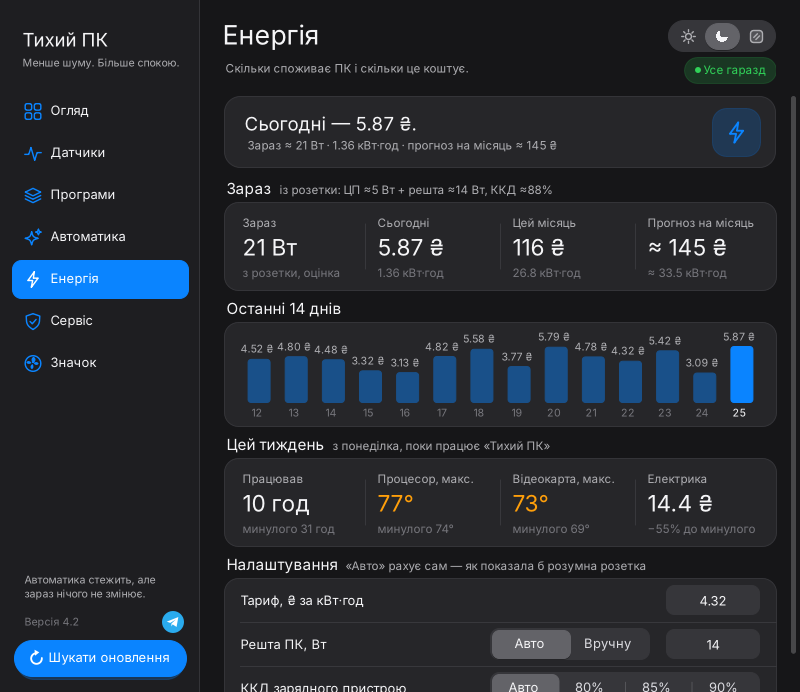
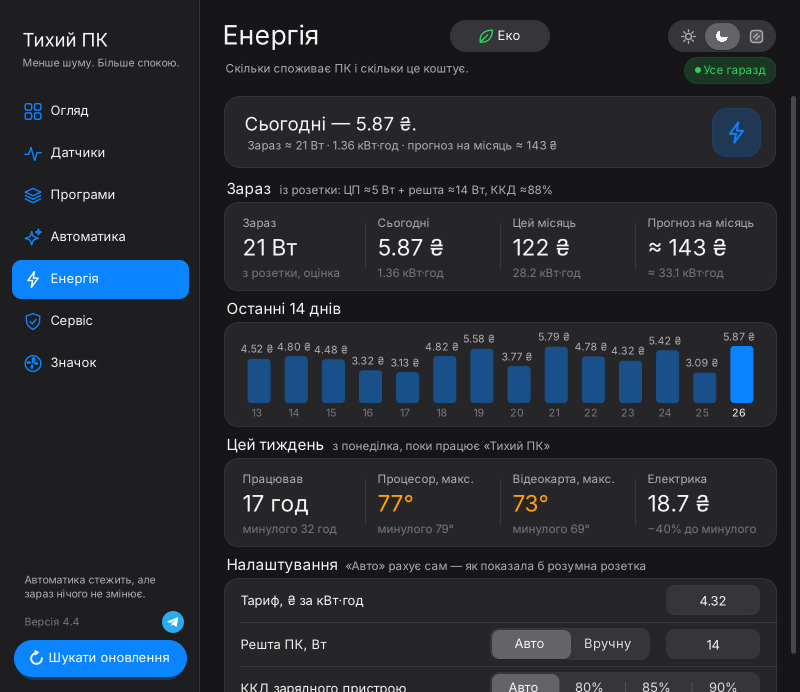
4.4: поля чисел у «Склі», оновлені знімки
Claude-Session: https://claude.ai/code/session_01SfcRwrkwGvgeaTNGhf47q9

diff --git a/src/Controls.cs b/src/Controls.cs
@@ -981,8 +981,8 @@ namespace TyhyiPK
                 if (h != null) h.Handled = true;
             };
             Controls.Add(tb);
-            Ui.Rethemers.Add(() => { tb.BackColor = Ui.Solid(Ui.Fill); tb.ForeColor = Ui.Ink; Invalidate(); });
-            tb.BackColor = Ui.Solid(Ui.Fill);
+            Ui.Rethemers.Add(() => { tb.BackColor = Ui.SolidOnCard(Ui.Fill); tb.ForeColor = Ui.Ink; Invalidate(); });
+            tb.BackColor = Ui.SolidOnCard(Ui.Fill);
             tb.ForeColor = Ui.Ink;
         }
 
@@ -1021,7 +1021,8 @@ namespace TyhyiPK
         protected override void OnPaint(PaintEventArgs e)
         {
             var g = Prep(e);
-            Ui.FillRound(g, new RectangleF(0, 0, Width - 1, Height - 1), Ui.S(8), Ui.Fill);
+            // Поле вводу Windows не буває напівпрозорим, тому в «Склі» вся плашка того ж суцільного кольору, що й поле.
+            Ui.FillRound(g, new RectangleF(0, 0, Width - 1, Height - 1), Ui.S(8), Ui.Glass ? tb.BackColor : Ui.Fill);
         }
     }
 

diff --git a/src/Glass.cs b/src/Glass.cs
@@ -46,6 +46,15 @@ namespace TyhyiPK
             return Color.FromArgb((int)(Bg.R + (c.R - Bg.R) * a), (int)(Bg.G + (c.G - Bg.G) * a), (int)(Bg.B + (c.B - Bg.B) * a));
         }
 
+        // Те саме, але поверх картки (поле вводу на картці): спершу відтінок картки, потім сам колір.
+        public static Color SolidOnCard(Color c)
+        {
+            if (c.A == 255) return c;
+            Color b = Solid(Card);
+            float a = c.A / 255f;
+            return Color.FromArgb((int)(b.R + (c.R - b.R) * a), (int)(b.G + (c.G - b.G) * a), (int)(b.B + (c.B - b.B) * a));
+        }
+
         // Фон елемента: у звичайних темах — суцільний колір, у «Склі» — шматок розмитого тла під ним
         // плюс напівпрозорий відтінок поверхні (картки, бокової панелі).
         public static void PaintBack(Graphics g, Control c, Color surface)

diff --git a/CHANGES.md b/CHANGES.md
@@ -7,6 +7,7 @@
 - Автоматика «Коли зникає світло»: щойно ноутбук чи ДБЖ (підключений по USB) переходить на батарею — сам вмикається «Еко», а коли світло повертається — твої режими.
 - На «Огляді» показники тепер окремо для процесора й відеокарти — прямо над їхніми режимами: температура, навантаження, споживання, кулер, ліміт і вентилятори карти.
 - У темі «Скло» вибраний режим зафарбований своїм кольором з білим текстом — читається краще.
+- У темі «Скло» поля для чисел (тариф, решта ПК) більше не виглядають темними прямокутниками всередині плашки.
 
 ## 4.3
 - Нова тема «Скло»: під вікном — розмиті шпалери твого робочого стола, а картки, бокове меню й перемикачі напівпрозорі, як скло. На світлих шпалерах затемнення сильніше, щоб текст добре читався. Якщо шпалер немає — м'яке синьо-фіолетове сяйво.
